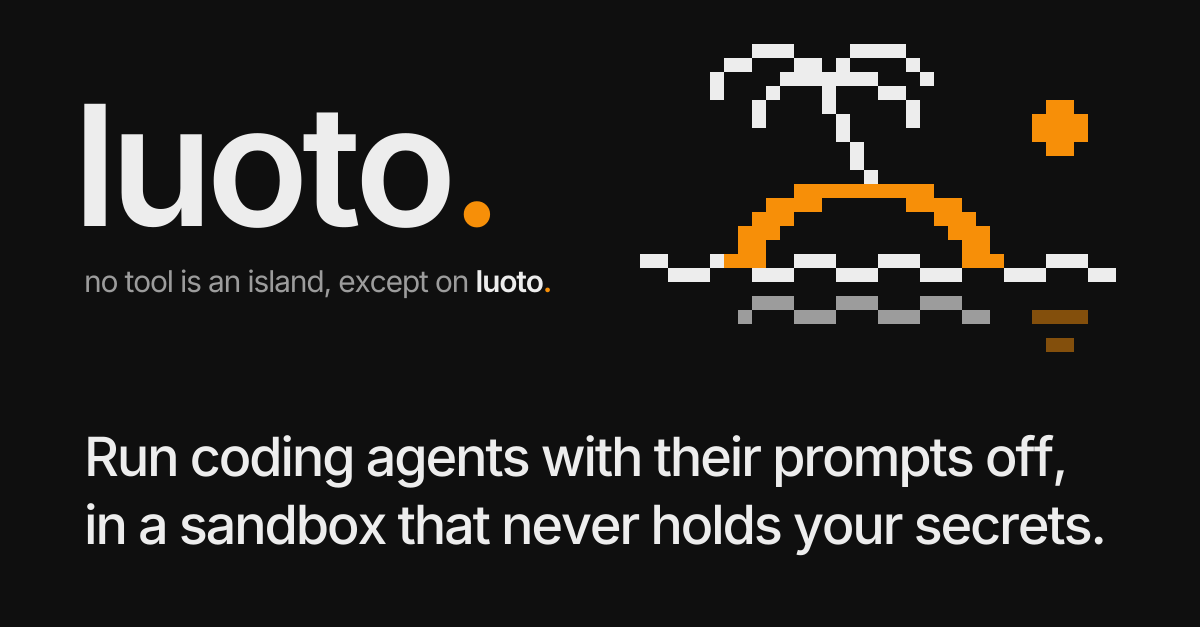
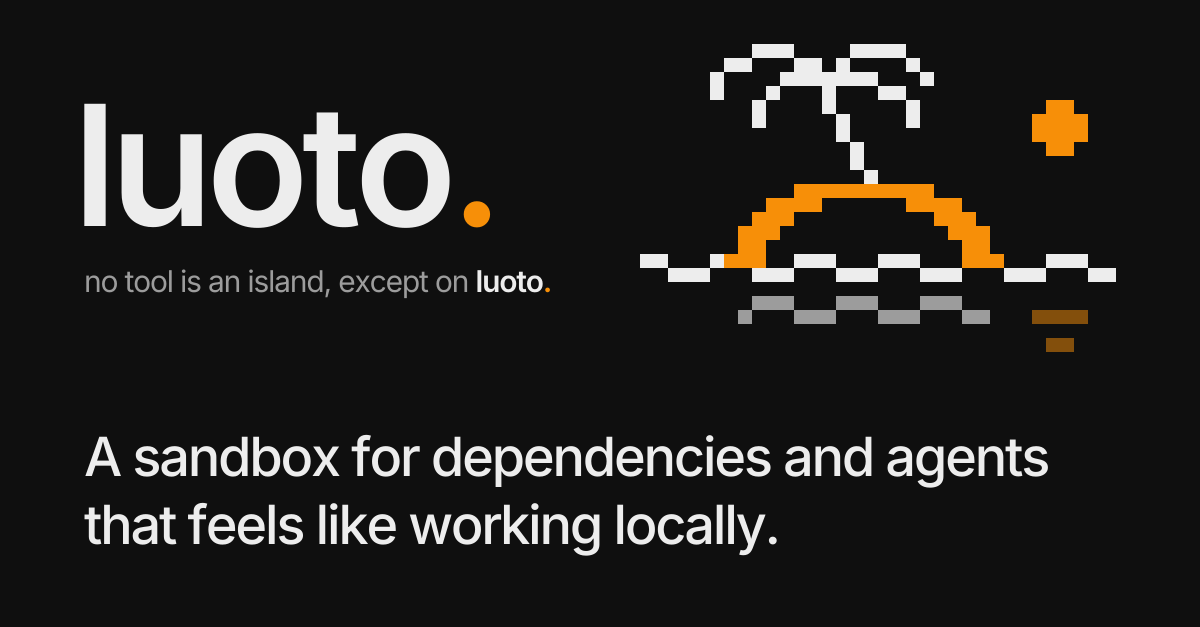
docs: claims that hold, and the threat model (#25)
* page: a shorter heading

* docs: claims that hold, and the threat model's missing paths

The lead names luoto's cornerstones: a sandbox for dependencies and agents that feels like working locally. Absolute secrets claims become what holds (tokens stay outside unless you put one in), and the page's cards follow. SECURITY.md covers CI on push, terminal sessions, agents with prompts off, preset and toolchain requests, pulled code and Docker isolation.

Changed region(s): [[0.0617, 0.697, 0.925, 0.8788]]

diff --git a/site/index.html b/site/index.html
@@ -4,7 +4,7 @@
   <head>
     <meta charset="utf-8" />
     <meta name="viewport" content="width=device-width, initial-scale=1" />
-    <title>luoto: run coding agents in a sandbox that never holds your secrets</title>
+    <title>luoto: a sandbox for dependencies and coding agents that feels local</title>
     <meta
       name="description"
       content="Dev sandboxes that contain supply-chain attacks: each project runs in a container that reaches only the hosts you allowed, with your tokens in a vault outside it."
@@ -20,7 +20,7 @@
     <meta property="og:url" content="https://eetu.github.io/luoto/" />
     <meta
       property="og:title"
-      content="luoto: run coding agents in a sandbox that never holds your secrets"
+      content="luoto: a sandbox for dependencies and coding agents that feels local"
     />
     <meta
       property="og:description"
@@ -32,12 +32,12 @@
     <meta property="og:image:height" content="627" />
     <meta
       property="og:image:alt"
-      content="luoto. no tool is an island, except on luoto. Run coding agents with their prompts off, in a sandbox that never holds your secrets. Beside it, an island with a palm, the sun and the sea in large pixels."
+      content="luoto. no tool is an island, except on luoto. A sandbox for dependencies and agents that feels like working locally. Beside it, an island with a palm, the sun and the sea in large pixels."
     />
     <meta name="twitter:card" content="summary_large_image" />
     <meta
       name="twitter:title"
-      content="luoto: run coding agents in a sandbox that never holds your secrets"
+      content="luoto: a sandbox for dependencies and coding agents that feels local"
     />
     <meta
       name="twitter:description"
@@ -46,7 +46,7 @@
     <meta name="twitter:image" content="https://eetu.github.io/luoto/og.png" />
     <meta
       name="twitter:image:alt"
-      content="luoto. no tool is an island, except on luoto. Run coding agents with their prompts off, in a sandbox that never holds your secrets. Beside it, an island with a palm, the sun and the sea in large pixels."
+      content="luoto. no tool is an island, except on luoto. A sandbox for dependencies and agents that feels like working locally. Beside it, an island with a palm, the sun and the sea in large pixels."
     />
 
     <link rel="preload" href="fonts/inter-latin.woff2" as="font" type="font/woff2" crossorigin />
@@ -77,24 +77,23 @@
       </header>
 
       <main>
-        <h1>
-          Run coding agents with their permission prompts off, in a sandbox that reaches only the
-          hosts you allowed and never holds your secrets.
-        </h1>
+        <h1>A sandbox for dependencies and agents that feels like working locally</h1>
+        <p class="lede">
+          Packages, tools and agents reach only the hosts you allowed, with your tokens in a
+          vault outside. It feels like your machine: your editor over SSH, dev servers at
+          localhost, toolchains installed from the project's own files.
+        </p>
 
         <figure class="cast">
           <img
             src="hello.gif"
             width="1200"
             height="880"
-            alt="A terminal: luoto setup, luoto init in luoto's own folder, Claude Code adding a splash in a shell of the env, the change pulled back, and luoto setup opening with it"
+            alt="A terminal: luoto setup, then luoto init --agent claude in luoto's own folder. In a shell of the env, Claude Code adds an island to what luoto setup prints. luoto pull brings the change back, and luoto setup opens with the island."
           />
           <figcaption>
-            Here the project is luoto itself, and the cast opens with its
-            <code>luoto setup</code> as it was. <code>luoto init --agent claude</code> in its
-            folder, one confirm, and Claude Code works in the env, on a copy: it adds the island
-            <code>luoto setup</code> opens with. <code>luoto pull</code> brings the change back,
-            reviewed first, and the setup that then runs is the pulled code.
+            Claude Code adds a splash screen to <code>luoto setup</code>, in an env of luoto's own
+            folder.
           </figcaption>
         </figure>
 
@@ -108,34 +107,47 @@
         <p>luoto gives each project a sandbox where that doesn't work:</p>
         <div class="three">
           <section class="halo-card">
-            <h3>It can't see your files.</h3>
+            <h3>It sees only the project.</h3>
             <p>
-              The project is copied in; your home folder, SSH keys and other repositories stay on
-              your machine.
+              The project is copied in, with any folder you share; your home folder, SSH keys and
+              other repositories stay on your machine.
             </p>
           </section>
           <section class="halo-card">
             <h3>It reaches only what you allowed.</h3>
             <p>
-              Every request leaves through a gate with per-host rules, read-only unless you say
-              otherwise. Anything else is blocked and shown to you, with a one-click allow.
+              Every request leaves through a gate with per-host rules, read-only by default beyond
+              what installs and the agent's model need. Anything else is blocked and shown to
+              you, with a one-click allow.
             </p>
           </section>
           <section class="halo-card">
-            <h3>Your secrets never enter it.</h3>
+            <h3>Your tokens stay outside it.</h3>
             <p>
               Agent, git and cloud tokens stay in a vault outside the sandbox; the gate adds them
-              to the requests you allowed, and code inside sees placeholders. Git tokens work only
-              for the repositories you named.
+              to the requests you allowed, and code inside sees placeholders. A git token over
+              HTTPS clones and pushes only the repositories you named. A secret is inside only
+              where you put it there: a variable the code reads, an agent you log in inside, what
+              a cloud identity reads.
             </p>
           </section>
         </div>
         <p>
-          You keep working as usual: your editor attaches over SSH, agents run with their prompts
-          off because the sandbox is the boundary, and work leaves as a pull request.
+          You keep working as usual: your editor attaches over SSH, agents run with their
+          permission prompts off because the sandbox is the boundary, and work leaves by
+          <code>git push</code> or a reviewed <code>luoto pull</code>. Agents know they're in a
+          sandbox: through luoto's MCP server they ask for a host, an install or a variable, and
+          you approve.
+        </p>
+        <p>
+          Setting up takes no list of tools. <code>luoto init</code> reads the project's own
+          version files (<code>.node-version</code>, <code>rust-toolchain.toml</code>, a
+          <code>package.json</code>'s package manager, …) and proposes its toolchains and package
+          registries; <code>luoto up</code> installs them in the env, with the gate open to each
+          install's hosts only while it runs.
         </p>
 
-        <h2 id="blocked">What a blocked request looks like</h2>
+        <h2 id="blocked">A blocked request</h2>
         <figure>
           <div class="halo-card shot">
             <picture>
@@ -185,8 +197,9 @@ scoop install luoto</code></pre>
           <p>Then, once:</p>
           <pre><code>luoto setup</code></pre>
           <p>
-            It looks for a container runtime you have installed, asks which to use when there are
-            several, and gets the images. Without one it lists them with their install pages.
+            It finds the container runtime you have installed, asks which to use when there are
+            several, and gets the images. With none, it lists the ones it supports and their
+            install pages.
             Updates, tab completion and checking a download:
             <a href="https://github.com/eetu/luoto/blob/main/docs/install.md">Install details</a>.
           </p>

diff --git a/site/style.css b/site/style.css
@@ -168,11 +168,19 @@ nav a {
 
 h1 {
   max-width: 24em;
-  margin: 2rem 0 2.5rem;
+  margin: 2rem 0 0.75rem;
   font-size: clamp(1.5rem, 1rem + 2.4vw, 2.3rem);
   font-weight: 600;
   line-height: 1.25;
   letter-spacing: -0.02em;
+  text-wrap: balance;
+}
+
+.lede {
+  max-width: 38rem;
+  margin: 0 0 2.5rem;
+  font-size: clamp(1.05rem, 0.95rem + 0.5vw, 1.2rem);
+  line-height: 1.5;
   text-wrap: balance;
 }
 

diff --git a/site/og/make.py b/site/og/make.py
@@ -58,7 +58,7 @@ CELL = 14
 ART = (WIDTH - MARGIN - CELL * (len(PIXELS[0]) - 1), 44)
 TRACKING = -0.04
 # What a card shows of luoto without a word beside it: the README's first sentence, short.
-PITCH = ("Run coding agents with their prompts off,", "in a sandbox that never holds your secrets.")
+PITCH = ("A sandbox for dependencies and agents", "that feels like working locally.")
 
 
 def art() -> str:

diff --git a/SECURITY.md b/SECURITY.md
@@ -89,13 +89,20 @@ Host malware is out of scope: anything that can run as the user can `exec` into 
   configuration time. Configure branch rulesets on GitHub as well; the gate is a guard-rail.
   GraphQL names no repository in its path, so with a token (not an App) it reaches what the
   token does, `read_repos` and unlisted repositories included; only an App's minted token is
-  limited to the env's repositories.
+  limited to the env's repositories. A pushed branch or an opened pull request runs the
+  repository's CI as any branch does, with code the sandbox wrote, and CI runs outside the
+  sandbox: keep CI secrets in environments and protected branches, and give a token no
+  `workflow` scope, which would let a push change the workflows (luoto can check that only
+  for an App).
 - **Azure DevOps writes.** The PAT goes only on the granted repositories' git paths and their
   pull requests' REST paths, and pushes pass the same guard as on GitHub. A pull request's
   body is an allowlist of fields (title, description, branches, draft, reviewers, work items,
   labels), so completing one (a merge) or setting auto-complete is refused, as are votes. A PAT
   reaches its whole organization, so the gate's paths are the only repository boundary; the
   rest of its REST API is not reachable. Configure branch policies in Azure DevOps as well.
+  A pushed branch or an opened pull request runs the pipelines that trigger on it, with code
+  the sandbox wrote, outside the sandbox: keep their secrets behind approvals and branch
+  checks.
 - **Other forges** (`[[credentials.git]]`). The token goes only on the granted repositories'
   smart-HTTP and LFS paths, pushes pass the same guard, and push options (which can open merge
   requests or skip CI) are refused. The forge's API is not reachable with it; the token's
@@ -138,8 +145,10 @@ Host malware is out of scope: anything that can run as the user can `exec` into 
   ignores in a repository, and never writes to the host; work leaves through git pushes or a
   reviewed `pull`. `pull` reviews changes, holds back risky files in any folder within the pull
   (compared case-insensitively, as macOS and Windows name them), refuses `.git` under any
-  spelling, names that collide by case, and paths and symlinks that leave the folder. A
-  pulled `.gitignore` decides what later copies leave out, so review its changes. `pull`
+  spelling, names that collide by case, and paths and symlinks that leave the folder. What
+  it holds back is what tools run by themselves; the rest is still code the sandbox wrote,
+  and building or running it on your machine runs it outside the sandbox: read the diff
+  first. A pulled `.gitignore` decides what later copies leave out, so review its changes. `pull`
   never writes into your home folder or a folder that holds it. With podman on macOS and
   Windows, envs run only in luoto's own VM, which mounts none of your folders but luoto's
   shares folder, read-only (`luoto doctor` checks), so an escape reaches what you shared, not
@@ -164,8 +173,9 @@ Host malware is out of scope: anything that can run as the user can `exec` into 
   do, where mise reads its version files and `mise.toml` (which can run commands in the env).
   Both questions stay open until answered: an `up` cut short or without a terminal (the UI,
   `up --all`) installs nothing. Until then the env has its default presets and the access you
-  gave the remote. A shell or editor you open in it starts mise there. git's output on the
-  way, the remote's messages included, is shown escaped.
+  gave the remote. A shell or editor you open in it starts mise there, and an agent you start
+  there reads the clone's files and can run the hooks and MCP servers the clone configures
+  for it. git's output on the way, the remote's messages included, is shown escaped.
 - **Moving an env** (`luoto export`, `luoto import`). An archive holds no secret value, CA
   key or vault token: the config's refs stay refs, read where the env is imported, and import
   makes a new CA, vault token and subnet. The archive is untrusted input (the sandbox wrote
@@ -189,15 +199,18 @@ Host malware is out of scope: anything that can run as the user can `exec` into 
   ID range, and none maps to the VM user that owns podman (and so the vault and the other
   envs). `isolation = "container"` opts an env out of gVisor, leaving the VM's kernel as the
   boundary. With Docker, dev containers are plain containers, in Docker's VM on macOS and
-  Windows (which shares your folders) and on the host on Linux. On Apple's `container` every
-  container is a VM of its own: the dev VM has no network card, only a tun link to its gate
-  that the background watcher carries on your Mac, so it reaches neither your Mac nor your
-  network but through the gate. A gate is on its env's NAT network only, and the vault on its
-  own; a gate's connections to private addresses are opened by the watcher (above).
+  Windows (which shares your folders) and on the host on Linux, unless you register gVisor
+  with Docker and set `oci_runtime = "runsc"` under the env's `[resources]`; root in the
+  sandbox is root in a container of Docker's, with no ID range of its own. On Apple's
+  `container` every container is a VM of its own: the dev VM has no network card, only a
+  tun link to its gate that the background watcher carries on your Mac, so it reaches
+  neither your Mac nor your network but through the gate. A gate is on its env's NAT
+  network only, and the vault on its own; a gate's connections to private addresses are
+  opened by the watcher (above).
 - **Control plane.** Policy, CA and credentials reach the gate and vault through the
   runtime's `exec` into a unix socket — there is no admin port. The local UI binds
-  127.0.0.1, requires a per-run token, checks Host (DNS rebinding) and Origin, and sets a
-  strict CSP.
+  127.0.0.1, requires a per-run token, checks Host (DNS rebinding) and, on writes, Origin,
+  and sets a CSP that takes scripts only from the UI itself (inline ones by hash).
 - **Project settings.** A repository's `luoto.toml` is untrusted input: it applies only in the
   exact version the user accepted, never carries credentials or secret refs, and its rules
   pass the sandbox's own request checks. Its denies only tighten; it can't mute denials,
@@ -207,14 +220,16 @@ Host malware is out of scope: anything that can run as the user can `exec` into 
   are published on your machine's 127.0.0.1, `[deps] run` commands run in the env, and its
   repositories are cloned.
 - **Self-test.** `luoto up` verifies from inside, whenever a container restarts (skip with
-  `--no-selftest`), that raw-IP TCP, UDP and DNS cannot leave before any secret, dotfile or SSH
-  key enters the env; an env that fails is stopped.
-  `luoto doctor` also checks that host services are unreachable. The test runs inside the
+  `--no-selftest`), that raw-IP TCP, UDP and DNS cannot leave before any secret, dotfile or
+  the editor's public SSH key enters the env; an env that fails is stopped. On podman and
+  Docker, `luoto doctor` also checks that host services are unreachable (Apple's dev VM has
+  no network card). The test runs inside the
   container it checks, so it confirms the configuration rather than proving isolation.
 - **Sandbox output.** Values read back from the sandbox are checked against a strict format
   before the host uses them (the login name in the generated ssh config), and text from it
-  — file names, request paths, event messages, what installers and git print — is shown with
-  control and bidi characters escaped.
+  that luoto prints — file names, request paths, event messages, what installers and git
+  print — is shown with control and bidi characters escaped. A terminal session is not
+  luoto's print (Terminal sessions, below).
 
 ## Residual risks
 
@@ -236,10 +251,10 @@ Host malware is out of scope: anything that can run as the user can `exec` into 
 - **Model servers on this machine** (`[model_servers]`). The gate lets the sandbox reach only
   the server's port and model endpoints, but the server runs with your privileges outside the
   VM, so its request parsing is in reach of code in the env; its token may go there over
-  plain HTTP, which never leaves the machine. The sandbox names this machine
-  `host.docker.internal`; the gate never asks DNS for it (podman's and Docker's hosts files
-  give it, and on Apple's `container` the gate dials its own gateway, this machine), since a
-  resolver on your network could answer with another machine. A server that forwards to a
+  plain HTTP. That never leaves the machine because the gate never asks DNS for the name the
+  sandbox gives this machine, `host.docker.internal`, which a resolver on your network could
+  answer with another machine: podman's and Docker's hosts files give it, and on Apple's
+  `container` the gate dials its own gateway, this machine. A server that forwards to a
   cloud service sends the prompts there.
 - **Azure write access.** With `access = "write"`, code in the sandbox can do on the listed
   subscriptions whatever the identity's roles allow: create resources that reach the internet,
@@ -275,9 +290,10 @@ Host malware is out of scope: anything that can run as the user can `exec` into 
   envs and the vault, which share the VM, and through podman's network helper also the
   services on your machine's loopback, and the helper's API, which can publish a port on your
   machine. On Linux there is no VM: gVisor is the boundary to
-  the host, so install `runsc`. With Docker, an escape lands in Docker's VM, which shares your
-  folders (on Linux, on the host). On Apple's `container`, an escape from the dev VM's kernel
-  has to break out through Apple's virtualization, onto your Mac.
+  the host, so install `runsc`. With Docker there is no gVisor unless you set it up
+  (Isolation, above): one kernel exploit lands, as root, in Docker's VM, which on Docker
+  Desktop shares your folders, or on Linux on the host. On Apple's `container`, an escape
+  from the dev VM's kernel has to break out through Apple's virtualization, onto your Mac.
 - **Forwarded ports.** A server in the sandbox on a port from 1024 up is reachable at
   localhost on your machine while it listens (at most 64 at once above 32767). Code in the
   sandbox can hold a port a host tool expects first (a local OAuth callback with a fixed
@@ -285,7 +301,15 @@ Host malware is out of scope: anything that can run as the user can `exec` into 
   any free port is never given a forwarded one. Ports already taken on the host are never
   taken over: a port anything on this machine answers on at localhost is skipped. luoto's UI
   ports (47878, 47879) are never forwarded, so no env can serve a page on a UI's origin.
-  `auto_forward = false` turns this off.
+  Any page in your browser and any local user can reach a forwarded port, as with any dev
+  server on localhost. `auto_forward = false` turns this off.
+- **Terminal sessions.** In `luoto shell` and `luoto agent run` the sandbox writes to your
+  terminal directly, escape sequences included: it can set the title or the clipboard where
+  your terminal allows it. Only what luoto itself prints is escaped.
+- **Agents.** luoto accepts an agent's first-run and workspace-trust prompts for it, and
+  `--yolo` turns its permission prompts off. An agent does what the text it reads tells it
+  (a file, a web page, an issue), with everything the env is granted: pushes, pull requests
+  and comments under your credential, the model key. The env's grants are the limit.
 - **Notifications.** A desktop notification shows the host and reason of a request, and a
   denied host, as the sandbox wrote them: control and format characters become spaces, the
   text is capped, and it reaches the notifier as an argument, never as script. Denials notify
@@ -303,12 +327,16 @@ Host malware is out of scope: anything that can run as the user can `exec` into 
 - **Social engineering.** Access requests are written by code in the sandbox. Read the host
   and access, not the reason; grant less than asked where that will do (`luoto approve --read`,
   `--path`). A request can't name an address range or a private address, and one for a port
-  is an uninspected tunnel to that host and port, never 80 or 443. An install request names a
+  is an uninspected tunnel to that host and port, never 80 or 443. A preset request names one
+  of luoto's presets; approving it opens all of that preset's hosts and keeps it in the env's
+  config (`luoto status` lists them). An install request names a
   package or toolchain the gate has checked to be a plain name; approving it runs that
   package's install scripts as root inside the env (still the sandbox), and its downloads take
-  the env's usual presets and install windows. A variable request names a variable and may
-  suggest a plain value, which you confirm or change; it can't ask for a secret, or name one
-  luoto sets in the env (a credential's placeholder, an agent's settings) or the shell's own.
+  the env's usual presets and install windows. A toolchain may name a backend that installs
+  anyone's code (`npm:`, `cargo:`, `ubi:`), which the request says. A variable request names
+  a variable and may suggest a plain value, which you confirm or change; it can't ask for a
+  secret, or name one luoto sets in the env (a credential's placeholder, an agent's
+  settings) or the shell's own.
   Secrets you add yourself (`luoto var set`), so the sandbox never chooses which of yours it
   gets, nor when.
 - **Env archives.** A `luoto export` file holds the env's whole workspace and home: work not

diff --git a/README.md b/README.md
@@ -5,8 +5,10 @@
   </picture>
 </p>
 
-Run coding agents with their permission prompts off, in a sandbox that reaches only the hosts
-you allowed and never holds your secrets.
+A sandbox for a project's dependencies and for coding agents that feels like working on your
+own machine: your editor attaches over SSH, dev servers answer at localhost and toolchains
+install from the project's own files. The sandbox reaches only the hosts you allowed and keeps
+your tokens outside.
 
 <p align="center">
   <img alt="luoto setup, luoto init in luoto's own folder, Claude Code adding a splash in a shell of the env, the change pulled back, and luoto setup opening with it" src="docs/casts/hello.gif" width="900">
@@ -26,14 +28,16 @@ faster, often with their permission prompts off.
 
 luoto gives each project a sandbox where that doesn't work:
 
-- **It can't see your files.** The project is copied in; your home folder, SSH keys and other
-  repositories stay on your machine.
+- **It sees only the project.** The project is copied in, with any folder you share; your
+  home folder, SSH keys and other repositories stay on your machine.
 - **It reaches only what you allowed.** Every request leaves through a gate with per-host
-  rules, read-only unless you say otherwise. Anything else is blocked and shown to you, with a
-  one-click allow.
-- **Your secrets never enter it.** Agent, GitHub, Azure DevOps and Azure tokens stay in a
+  rules, read-only by default beyond what installs and the agent's model need. Anything else
+  is blocked and shown to you, with a one-click allow.
+- **Your tokens stay outside it.** Agent, GitHub, Azure DevOps and Azure tokens stay in a
   vault outside the sandbox; the gate adds them to the requests you allowed, and code inside sees
-  placeholders. Git tokens work only for the repositories you named.
+  placeholders. A git token over HTTPS clones and pushes only the repositories you named. A
+  secret is inside only where you put it there: a variable the code reads, an agent you log in
+  inside, what a cloud identity reads.
 
 You keep working as usual: your editor attaches over SSH, agents run with their prompts off
 because the sandbox is the boundary, and work leaves as a pull request.
